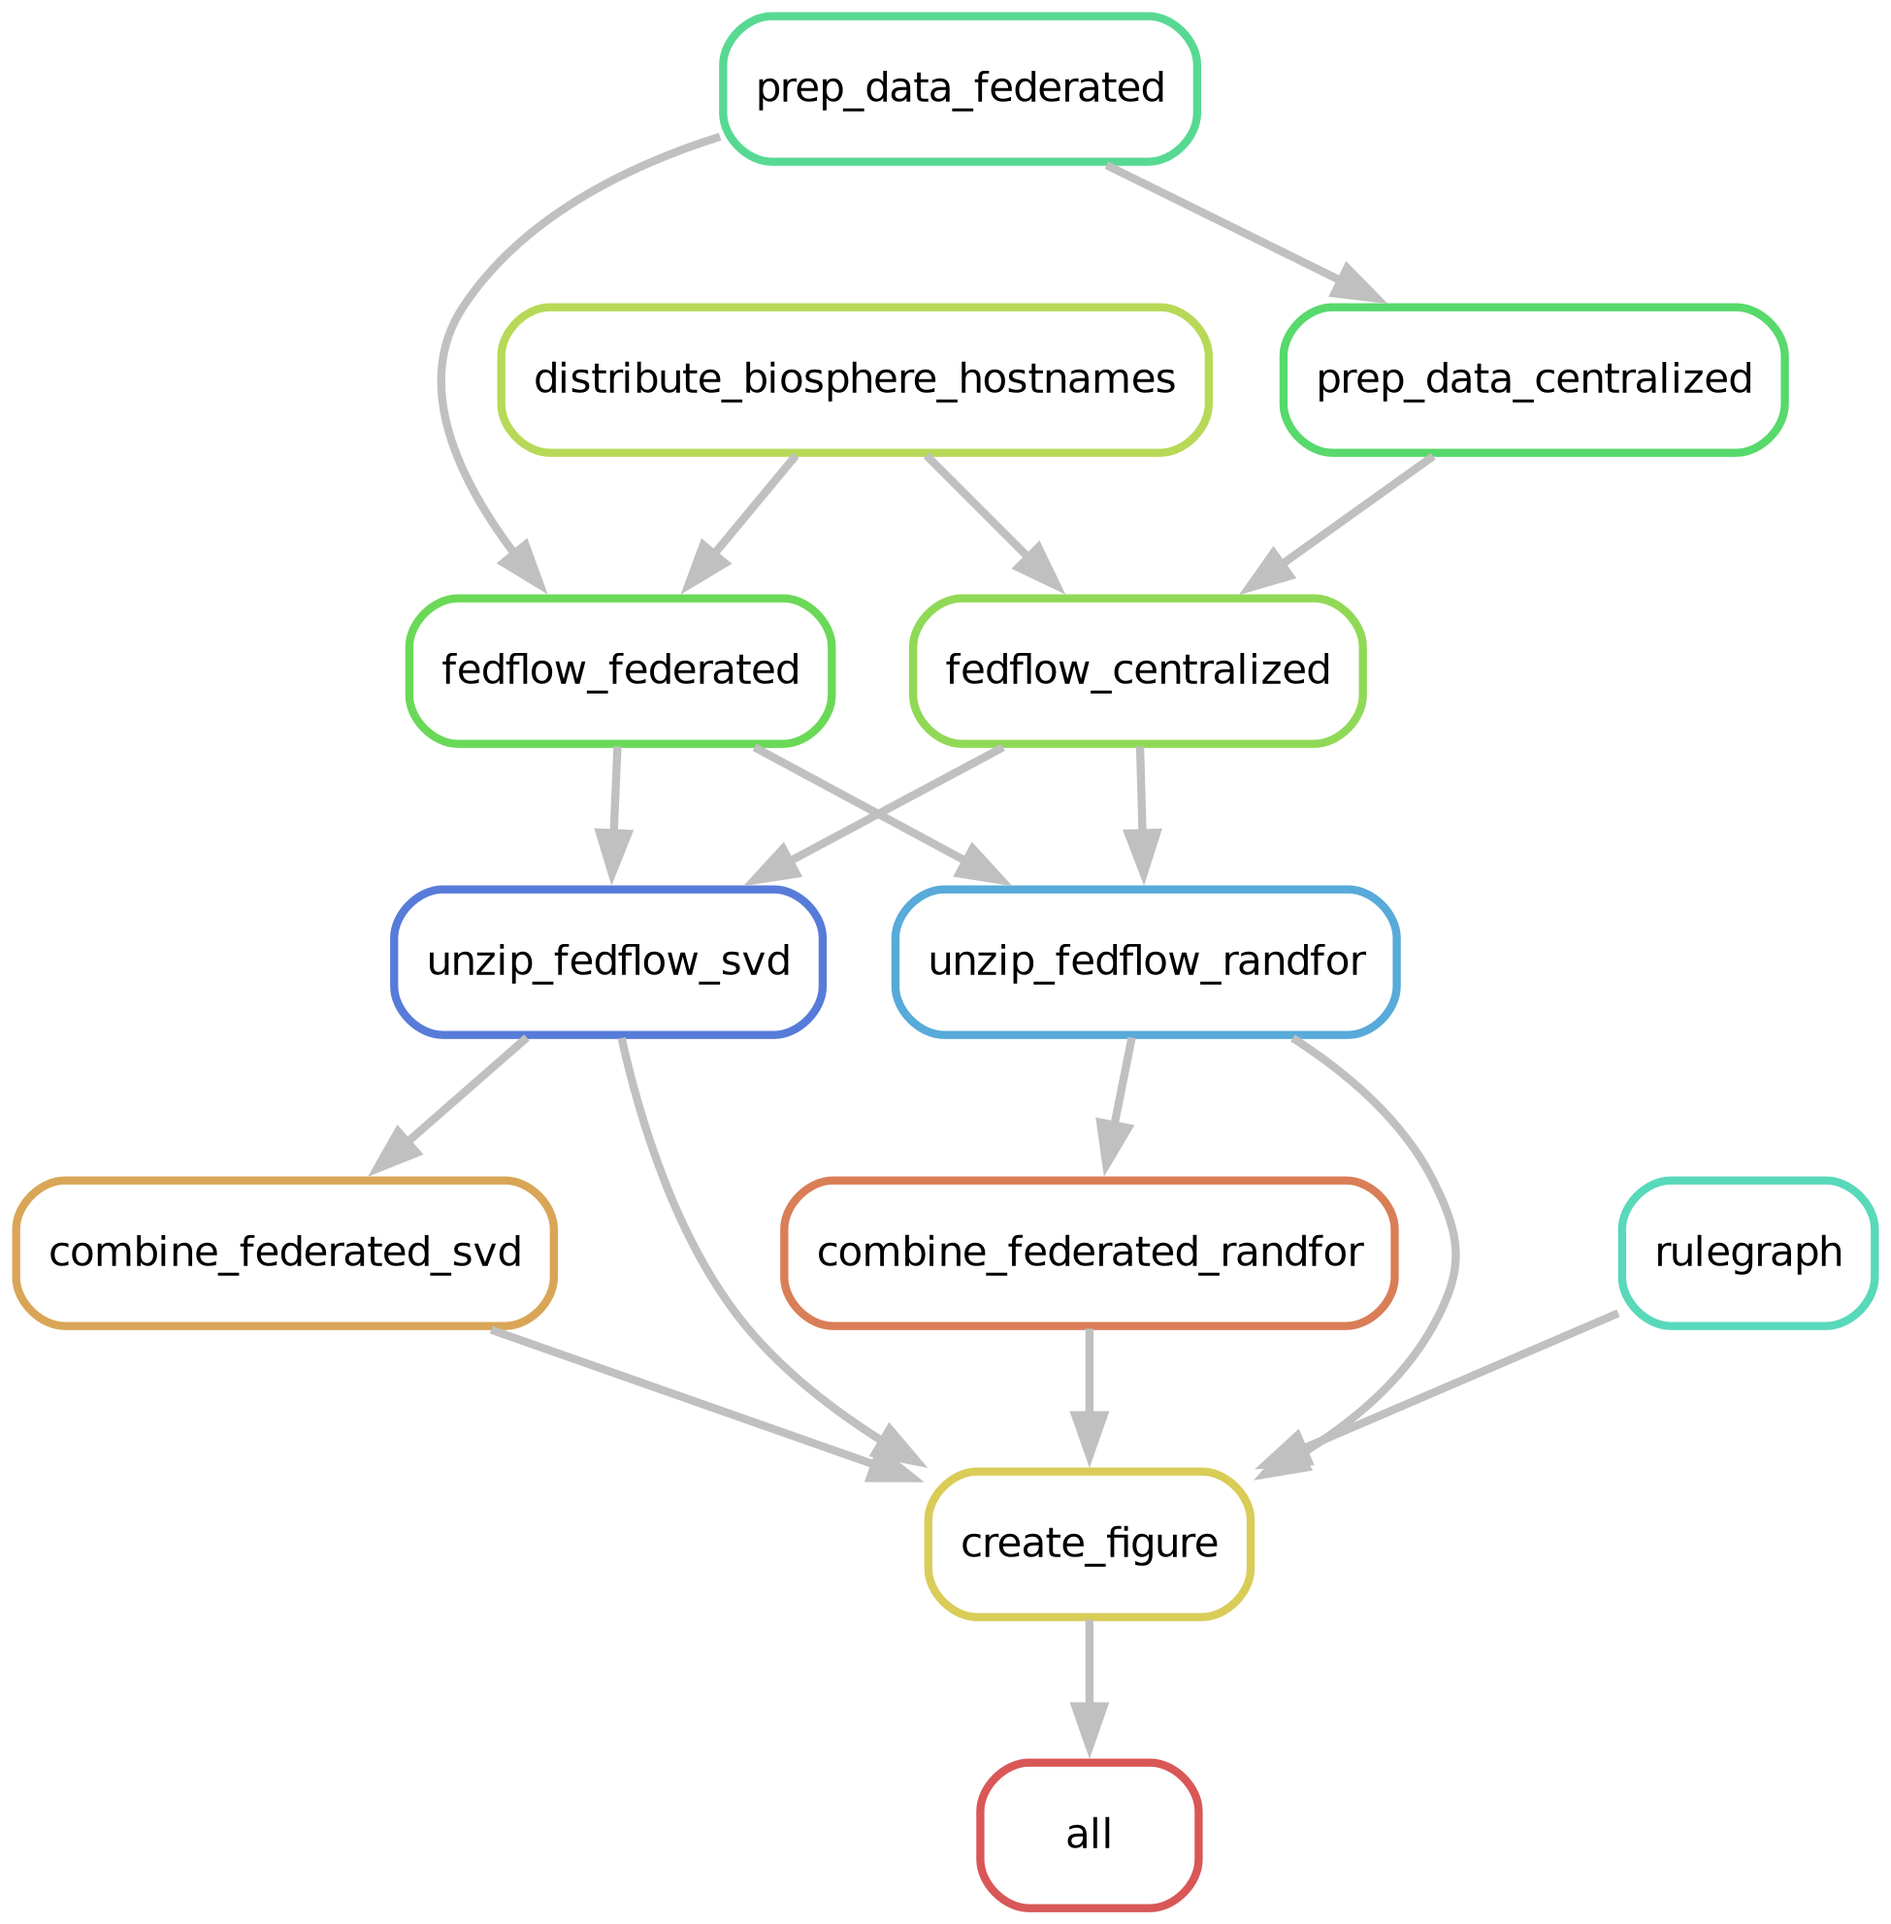
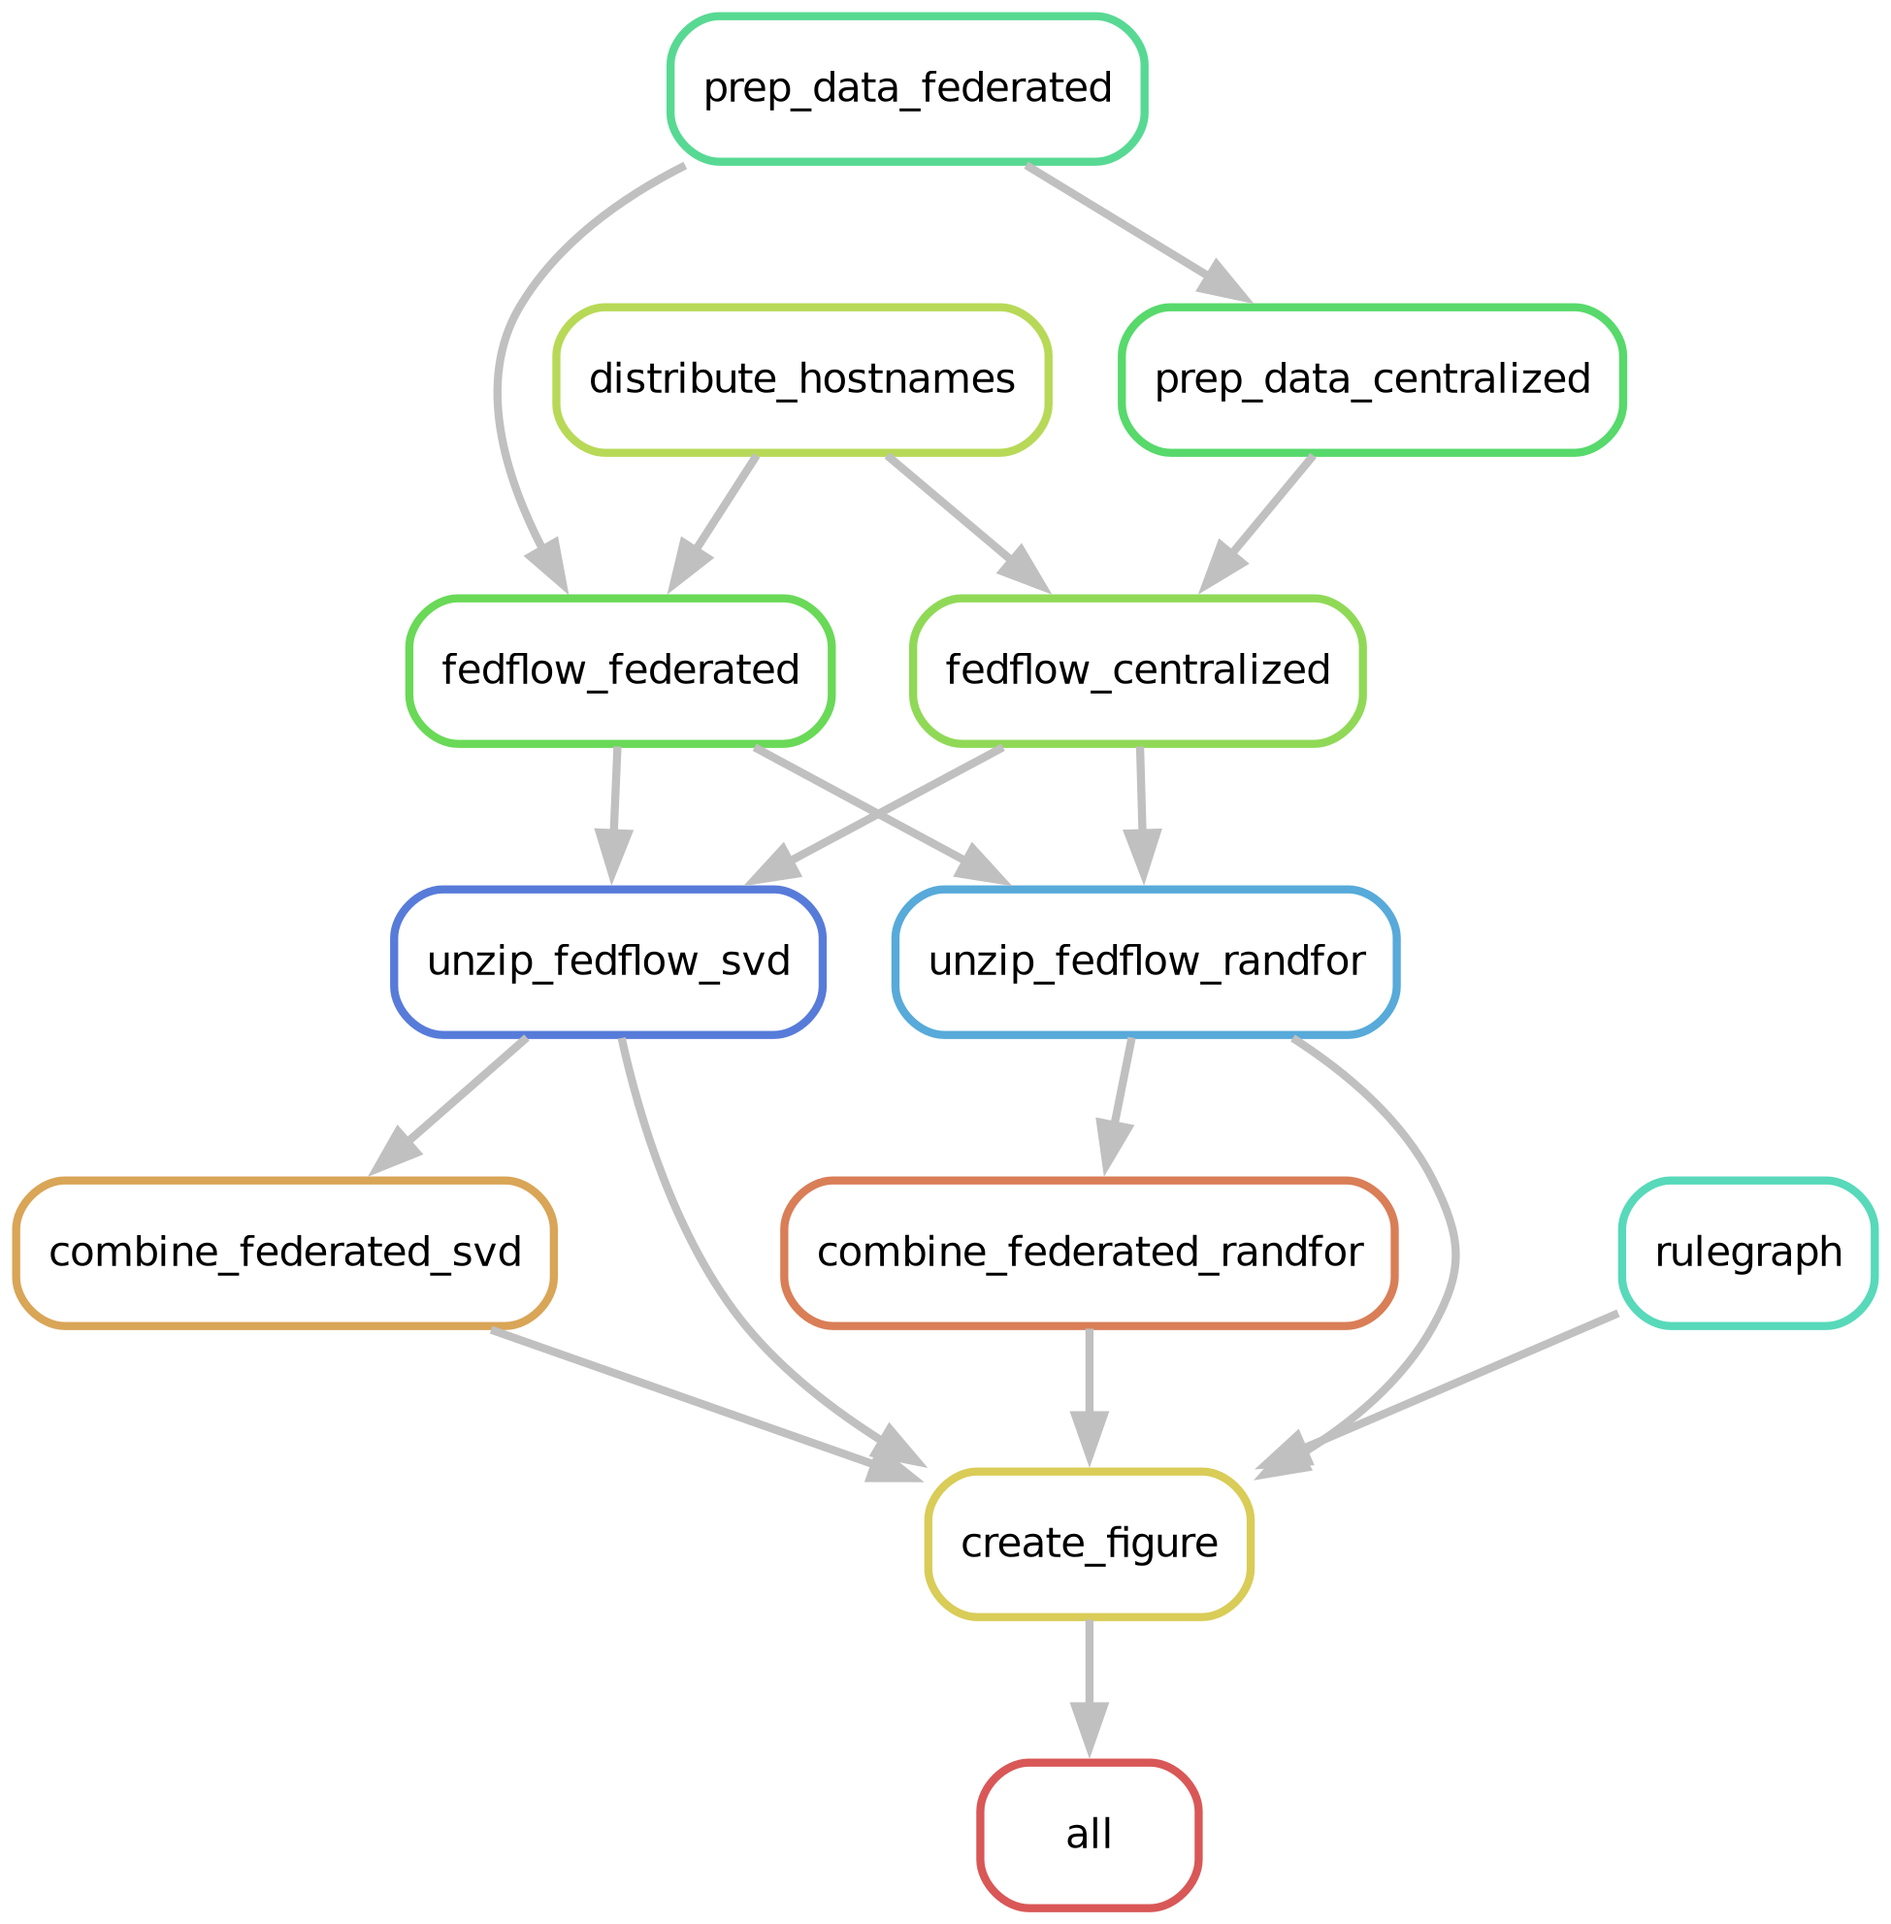
update figures

diff --git a/analysis/workflow_comp/workflow/scripts/distribute_hostnames.py b/analysis/workflow_comp/workflow/scripts/distribute_hostnames.py
@@ -8,6 +8,7 @@ import rtoml
 def get_args(): 
     parser = argparse.ArgumentParser()
     parser.add_argument("--hostnames", type=str, nargs='+', required=True)
+    parser.add_argument("--config_paths", type=str, required=True)
     parser.add_argument("--out", type=str, required=True)
     args = parser.parse_args()
     return args
@@ -15,7 +16,7 @@ def get_args():
 
 def main():
     args = get_args()
-    configs = glob('configs_filled_in/biosphere/*/*.toml')
+    configs = glob(args.config_paths)
     print(f"nconfigs: {len(configs)}")
     print(f"nhostnames: {len(args.hostnames)}")
 
